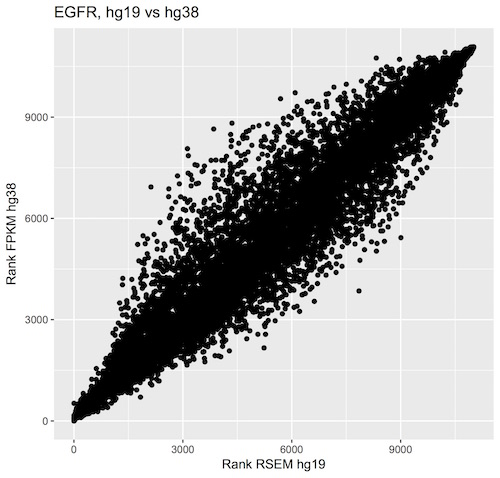
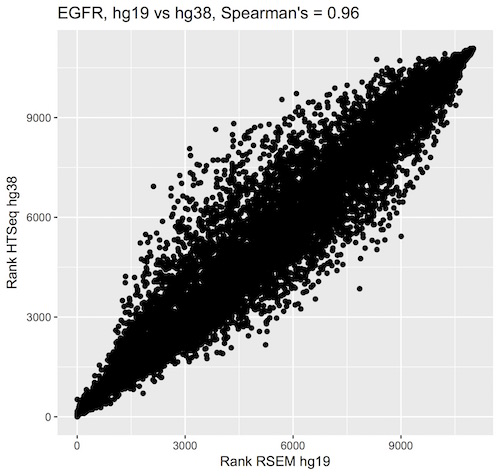
update to monthly query 0949

diff --git a/docs/source/sections/QueryOfTheMonthClub.rst b/docs/source/sections/QueryOfTheMonthClub.rst
@@ -17,9 +17,10 @@ Comparing the TCGA hg19 and GDC hg38 gene expression data.
 
 Description
 -----------
-This query compares gene expression builds from the TCGA hg19 RSEM and the
-new GDC hg38 FPKM (table coming soon!). Rather than look at one gene at
-a time, it's easy (and fast!) to look across all genes simultaneously.
+This query compares two gene expression builds. The first, from the TCGA, used
+the RSEM quantification method with the hg19 reference. The second is the
+new GDC data, quantified with the HTSeq method on the hg38 reference.
+Rather than look at one gene at a time, it's easy (and fast!) to look across all genes simultaneously.
 The following query includes gene reference tables and computes both
 Pearson and Spearman's correlation for each gene. After saving the results in a new
 table, we calculates deciles across all of the correlation coefficients and
@@ -46,7 +47,7 @@ The BigQuery
     SELECT
       SamplesSubmitterID AS sampleID,
       Ensembl_gene_ID AS geneID,
-      HTSeq__FPKM AS expFPKM
+      HTSeq__FPKM AS HTSeq_FPKM
     FROM
       `isb-cgc.hg38_data_previews.TCGA_GeneExpressionQuantification` ),
     --
@@ -61,7 +62,7 @@ The BigQuery
     FROM
       `isb-cgc.genome_reference.GENCODE_v24`
     WHERE
-      feature="gene" ),
+      feature='gene' ),
     --
     -- *Hg38*
     -- Now we'll join the two tables above to annotate the GDC expression data with gene-symbols,
@@ -72,8 +73,8 @@ The BigQuery
       GdcGene.sampleID,
       GdcGene.geneID,
       GeneRef.gene_name,
-      GdcGene.expFPKM,
-      DENSE_RANK() OVER (PARTITION BY GdcGene.geneID ORDER BY GdcGene.expFPKM ASC) AS rankFPKM
+      GdcGene.HTSeq_FPKM,
+      DENSE_RANK() OVER (PARTITION BY GdcGene.geneID ORDER BY GdcGene.HTSeq_FPKM ASC) AS rankHTSeq
     FROM
       GdcGene
     JOIN
@@ -91,7 +92,7 @@ The BigQuery
     SELECT
       SampleBarcode,
       HGNC_gene_symbol,
-      normalized_count,
+      normalized_count as RSEM_FPKM,
       DENSE_RANK() OVER (PARTITION BY HGNC_gene_symbol ORDER BY normalized_count ASC) AS rankRSEM,
       Platform
     FROM
@@ -105,9 +106,9 @@ The BigQuery
     SELECT
       hg38.geneID AS gene_id,
       hg38.gene_name AS gene_name,
-      CORR(LOG10(hg38.expFPKM+1),
-        LOG10(hg19.normalized_count+1)) AS gexpPearsonCorr,
-      CORR(hg38.rankFPKM,
+      CORR(LOG10(hg38.HTSeq_FPKM+1),
+        LOG10(hg19.RSEM_FPKM+1)) AS gexpPearsonCorr,
+      CORR(hg38.rankHTSeq,
         hg19.rankRSEM) AS gexpSpearmanCorr
     FROM
       Hg19
@@ -240,8 +241,8 @@ Newer bigrquery package versions support using standard SQL, so make sure you're
     SELECT
       SamplesSubmitterID AS sampleID,
       Ensembl_gene_ID AS geneID,
-      DENSE_RANK() OVER (PARTITION BY Ensembl_gene_ID ORDER BY HTSeq__FPKM ASC) AS rankFPKM,
-      HTSeq__FPKM AS expFPKM
+      DENSE_RANK() OVER (PARTITION BY Ensembl_gene_ID ORDER BY HTSeq__FPKM ASC) AS rankHTSeq,
+      HTSeq__FPKM AS HTseq_FPKM
     FROM
       `isb-cgc.hg38_data_previews.TCGA_GeneExpressionQuantification`
     WHERE
@@ -251,7 +252,7 @@ Newer bigrquery package versions support using standard SQL, so make sure you're
     SELECT
       SampleBarcode,
       HGNC_gene_symbol,
-      normalized_count as expRSEM,
+      normalized_count as RSEM_FPKM,
       DENSE_RANK() OVER (PARTITION BY HGNC_gene_symbol ORDER BY normalized_count ASC) AS rankRSEM,
       Platform
     FROM
@@ -263,10 +264,10 @@ Newer bigrquery package versions support using standard SQL, so make sure you're
     SELECT
       hg38.geneID AS gene_id,
       hg19.HGNC_gene_symbol AS gene_name,
-      LOG10(hg38.expFPKM+1) as Log10_hg38_FPKM,
-      LOG10(hg19.expRSEM+1) AS Log10_hg19_RSEM,
+      LOG10(hg38.HTseq_FPKM+1) as Log10_hg38_HTSeq,
+      LOG10(hg19.RSEM_FPKM+1) AS Log10_hg19_RSEM,
       rankRSEM,
-      rankFPKM
+      rankHTSeq
     FROM
       Hg19
     JOIN
@@ -276,16 +277,16 @@ Newer bigrquery package versions support using standard SQL, so make sure you're
     GROUP BY
       gene_id,
       gene_name,
-      Log10_hg38_FPKM,
+      Log10_hg38_HTSeq,
       Log10_hg19_RSEM,
       rankRSEM,
-      rankFPKM"
+      rankHTSeq"
 
   result <- query_exec(q, project="isb-cgc-02-abcd", useLegacySql=F)
 
-  qplot(data=result, x=Log10_hg19_RSEM, y=Log10_hg38_FPKM, main="EGFR, hg19 vs hg38", xlab="Log10 RSEM hg19", ylab="Log10 FPKM hg38")
+  qplot(data=result, x=Log10_hg19_RSEM, y=Log10_hg38_HTSeq, main="EGFR, hg19 vs hg38, Pearson's = 0.93", xlab="Log10 RSEM hg19", ylab="Log10 HTSeq hg38")
 
-  qplot(data=result, x=rankRSEM, y=rankFPKM, main="EGFR, hg19 vs hg38", xlab="Rank RSEM hg19", ylab="Rank FPKM hg38")
+  qplot(data=result, x=rankRSEM, y=rankHTSeq, main="EGFR, hg19 vs hg38, Spearman's = 0.96", xlab="Rank RSEM hg19", ylab="Rank HTSeq hg38")
 
   # As an exercise to the reader, try plotting some other genes. Maybe genes
   # with both high and low correlations. What do you find?
